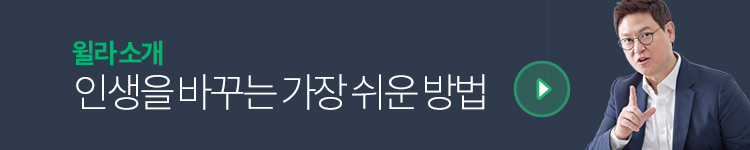
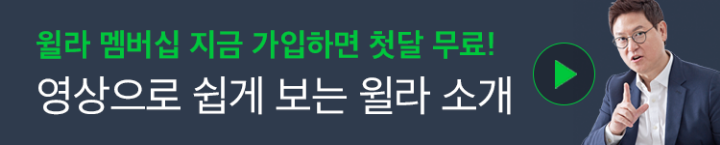
design-2.0-#112: 멤버십 가입 권장 배너 변경

Changed region(s): [[0.0306, 0.0, 1.0, 1.0], [0.0306, 0.1931, 0.7028, 0.4414], [0.7333, 0.331, 0.7639, 0.3586]]

diff --git a/src/scripts/pages/home/HomeVideoPage.js b/src/scripts/pages/home/HomeVideoPage.js
@@ -147,8 +147,8 @@ const styles = StyleSheet.create({
   },
   imageMainBanner: {
     width: '100%',
-    paddingTop: '8.3333%',
-    paddingBottom: '8.3333%',
+    paddingTop: '10.069444444%',
+    paddingBottom: '10.069444444%',
   },
 });
 
@@ -262,6 +262,26 @@ class HomeVideoPage extends React.Component {
           />
 
           <View>
+            <TouchableOpacity
+              activeOpacity={0.9}
+              onPress={() =>
+                // this.props.navigation.navigate('VideoPack', {
+                //   title: '윌라 홍보 영상'
+                // })
+                // 윌라 소개 동영상을 임시로 강좌로 구성했습니다.
+                // VideoPack 쓰려면 HomeScreen 에 추가 해서 사용하시면 됩니다.
+                Native.play('v300001_001')
+              }
+            >
+              <ImageBackground
+                source={IcMainWideBanner}
+                resizeMode="contain"
+                style={styles.imageMainBanner}
+              />
+            </TouchableOpacity>
+          </View>
+
+          <View>
             {globalStore.welaaaAuth && (
               <View>
                 <View
@@ -336,43 +356,11 @@ class HomeVideoPage extends React.Component {
                 </View>
               </View>
             ))}
-          {1 === 2 && (
-            <View>
-              <TouchableOpacity
-                activeOpacity={0.9}
-                onPress={() =>
-                  // this.props.navigation.navigate('VideoPack', {
-                  //   title: '윌라 홍보 영상'
-                  // })
-                  // 윌라 소개 동영상을 임시로 강좌로 구성했습니다.
-                  // VideoPack 쓰려면 HomeScreen 에 추가 해서 사용하시면 됩니다.
-                  Native.play('v300001_001')
-                }
-              >
-                <ImageBackground
-                  source={IcMainWideBanner}
-                  resizeMode="contain"
-                  style={styles.imageMainBanner}
-                />
-              </TouchableOpacity>
-            </View>
-          )}
 
-          <View style={{ backgroundColor: '#f0f0f4' }}>
-            <TouchableOpacity
-              activeOpacity={0.9}
-              onPress={() => this.props.navigation.navigate('MembershipScreen')}
-            >
-              <ImageBackground
-                source={BannerMembership}
-                resizeMode="contain"
-                style={styles.imageMainBanner}
-              />
-            </TouchableOpacity>
-          </View>
           <View
             style={{ width: '100%', height: 8, backgroundColor: '#F0F0F4' }}
           />
+
           {homeBannerData.length === 0 && (
             <View style={{ marginTop: '20%' }}>
               <ActivityIndicator
@@ -429,16 +417,27 @@ class HomeVideoPage extends React.Component {
 
               <ClipRank itemData={this.props.store.clipRankData} />
 
-              <View style={CommonStyles.alignJustifyContentBetween}>
-                <Text style={styles.titleH3}>
-                  회원들이 열심히 듣고 있는 클래스
-                </Text>
+              <View
+                style={{ marginBottom: 22, marginLeft: -13, marginRight: -13 }}
+              >
+                <TouchableOpacity
+                  activeOpacity={0.9}
+                  onPress={() =>
+                    // this.props.navigation.navigate('VideoPack', {
+                    //   title: '윌라 홍보 영상'
+                    // })
+                    // 윌라 소개 동영상을 임시로 강좌로 구성했습니다.
+                    // VideoPack 쓰려면 HomeScreen 에 추가 해서 사용하시면 됩니다.
+                    Native.play('v300001_001')
+                  }
+                >
+                  <ImageBackground
+                    source={IcMainWideBanner}
+                    resizeMode="contain"
+                    style={styles.imageMainBanner}
+                  />
+                </TouchableOpacity>
               </View>
-
-              <ClassList
-                classType="hot"
-                itemData={this.props.store.classHotData}
-              />
 
               <View style={CommonStyles.alignJustifyContentBetween}>
                 <Text style={styles.titleH3}>
@@ -465,18 +464,6 @@ class HomeVideoPage extends React.Component {
               </View>
             </View>
           )}
-          <View style={{ backgroundColor: '#f0f0f4' }}>
-            <TouchableOpacity
-              activeOpacity={0.9}
-              onPress={() => this.props.navigation.navigate('MembershipScreen')}
-            >
-              <ImageBackground
-                source={BannerMembership}
-                resizeMode="contain"
-                style={styles.imageMainBanner}
-              />
-            </TouchableOpacity>
-          </View>
 
           <Footer />
         </ScrollView>

diff --git a/src/scripts/pages/home/HomeAudioPage.js b/src/scripts/pages/home/HomeAudioPage.js
@@ -159,8 +159,8 @@ const styles = StyleSheet.create({
   },
   imageMainBanner: {
     width: '100%',
-    paddingTop: '8.3333%',
-    paddingBottom: '8.3333%',
+    paddingTop: '10.069444444%',
+    paddingBottom: '10.069444444%',
   },
 });
 
@@ -254,6 +254,26 @@ class HomeAudioPage extends React.Component {
             style={{ width: '100%', height: 8, backgroundColor: '#F0F0F4' }}
           />
 
+          <View>
+            <TouchableOpacity
+              activeOpacity={0.9}
+              onPress={() =>
+                // this.props.navigation.navigate('VideoPack', {
+                //   title: '윌라 홍보 영상'
+                // })
+                // 윌라 소개 동영상을 임시로 강좌로 구성했습니다.
+                // VideoPack 쓰려면 HomeScreen 에 추가 해서 사용하시면 됩니다.
+                Native.play('v300001_001')
+              }
+            >
+              <ImageBackground
+                source={IcMainWideBanner}
+                resizeMode="contain"
+                style={styles.imageMainBanner}
+              />
+            </TouchableOpacity>
+          </View>
+
           {globalStore.welaaaAuth && (
             <View>
               <View
@@ -274,6 +294,7 @@ class HomeAudioPage extends React.Component {
                     </View>
                   )}
               </View>
+
               <View
                 style={{ width: '100%', height: 8, backgroundColor: '#F0F0F4' }}
               />
@@ -303,21 +324,6 @@ class HomeAudioPage extends React.Component {
             </View>
           </View>
 
-          <View
-            style={{ width: '100%', height: 8, backgroundColor: '#F0F0F4' }}
-          />
-          <View style={{ backgroundColor: '#f0f0f4' }}>
-            <TouchableOpacity
-              activeOpacity={0.9}
-              onPress={() => this.props.navigation.navigate('MembershipScreen')}
-            >
-              <ImageBackground
-                source={BannerMembership}
-                resizeMode="contain"
-                style={styles.imageMainBanner}
-              />
-            </TouchableOpacity>
-          </View>
           <View
             style={{ width: '100%', height: 8, backgroundColor: '#F0F0F4' }}
           />
@@ -412,13 +418,21 @@ class HomeAudioPage extends React.Component {
               <Text style={styles.showAllText}>오디오북 전체보기</Text>
             </TouchableOpacity>
           </View>
-          <View style={{ backgroundColor: '#f0f0f4' }}>
+
+          <View>
             <TouchableOpacity
               activeOpacity={0.9}
-              onPress={() => this.props.navigation.navigate('MembershipScreen')}
+              onPress={() =>
+                // this.props.navigation.navigate('VideoPack', {
+                //   title: '윌라 홍보 영상'
+                // })
+                // 윌라 소개 동영상을 임시로 강좌로 구성했습니다.
+                // VideoPack 쓰려면 HomeScreen 에 추가 해서 사용하시면 됩니다.
+                Native.play('v300001_001')
+              }
             >
               <ImageBackground
-                source={BannerMembership}
+                source={IcMainWideBanner}
                 resizeMode="contain"
                 style={styles.imageMainBanner}
               />
